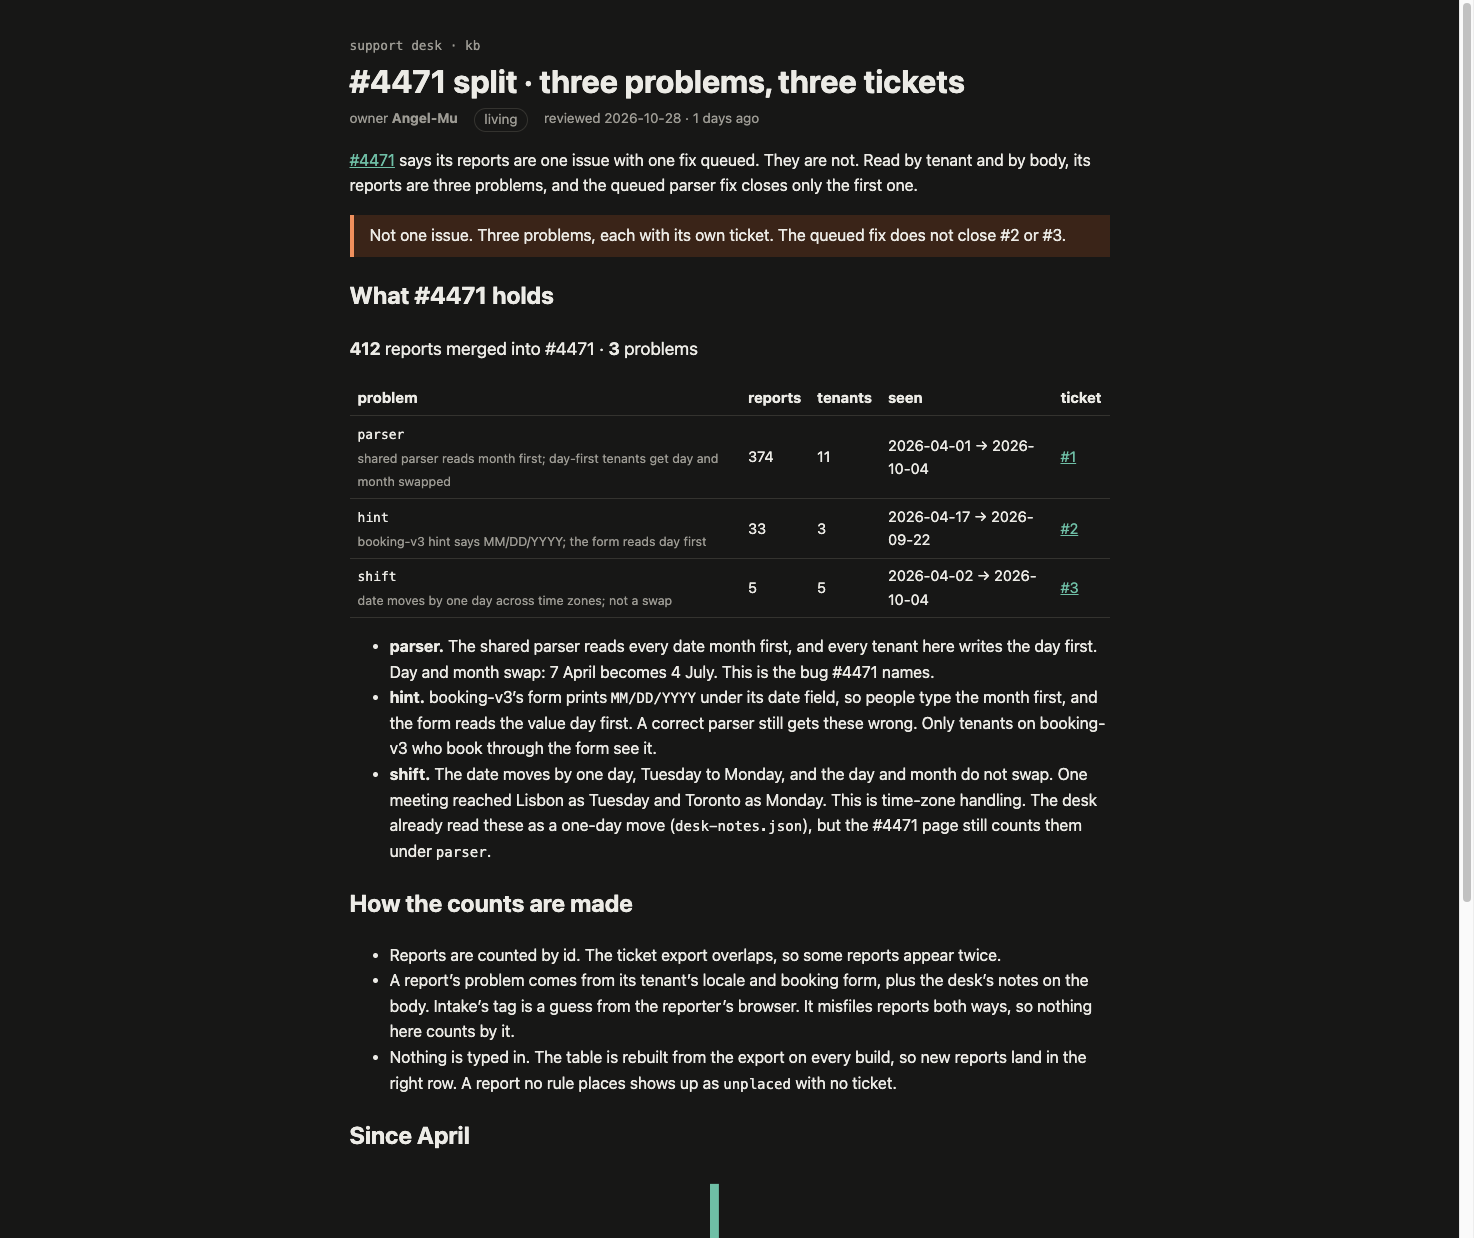
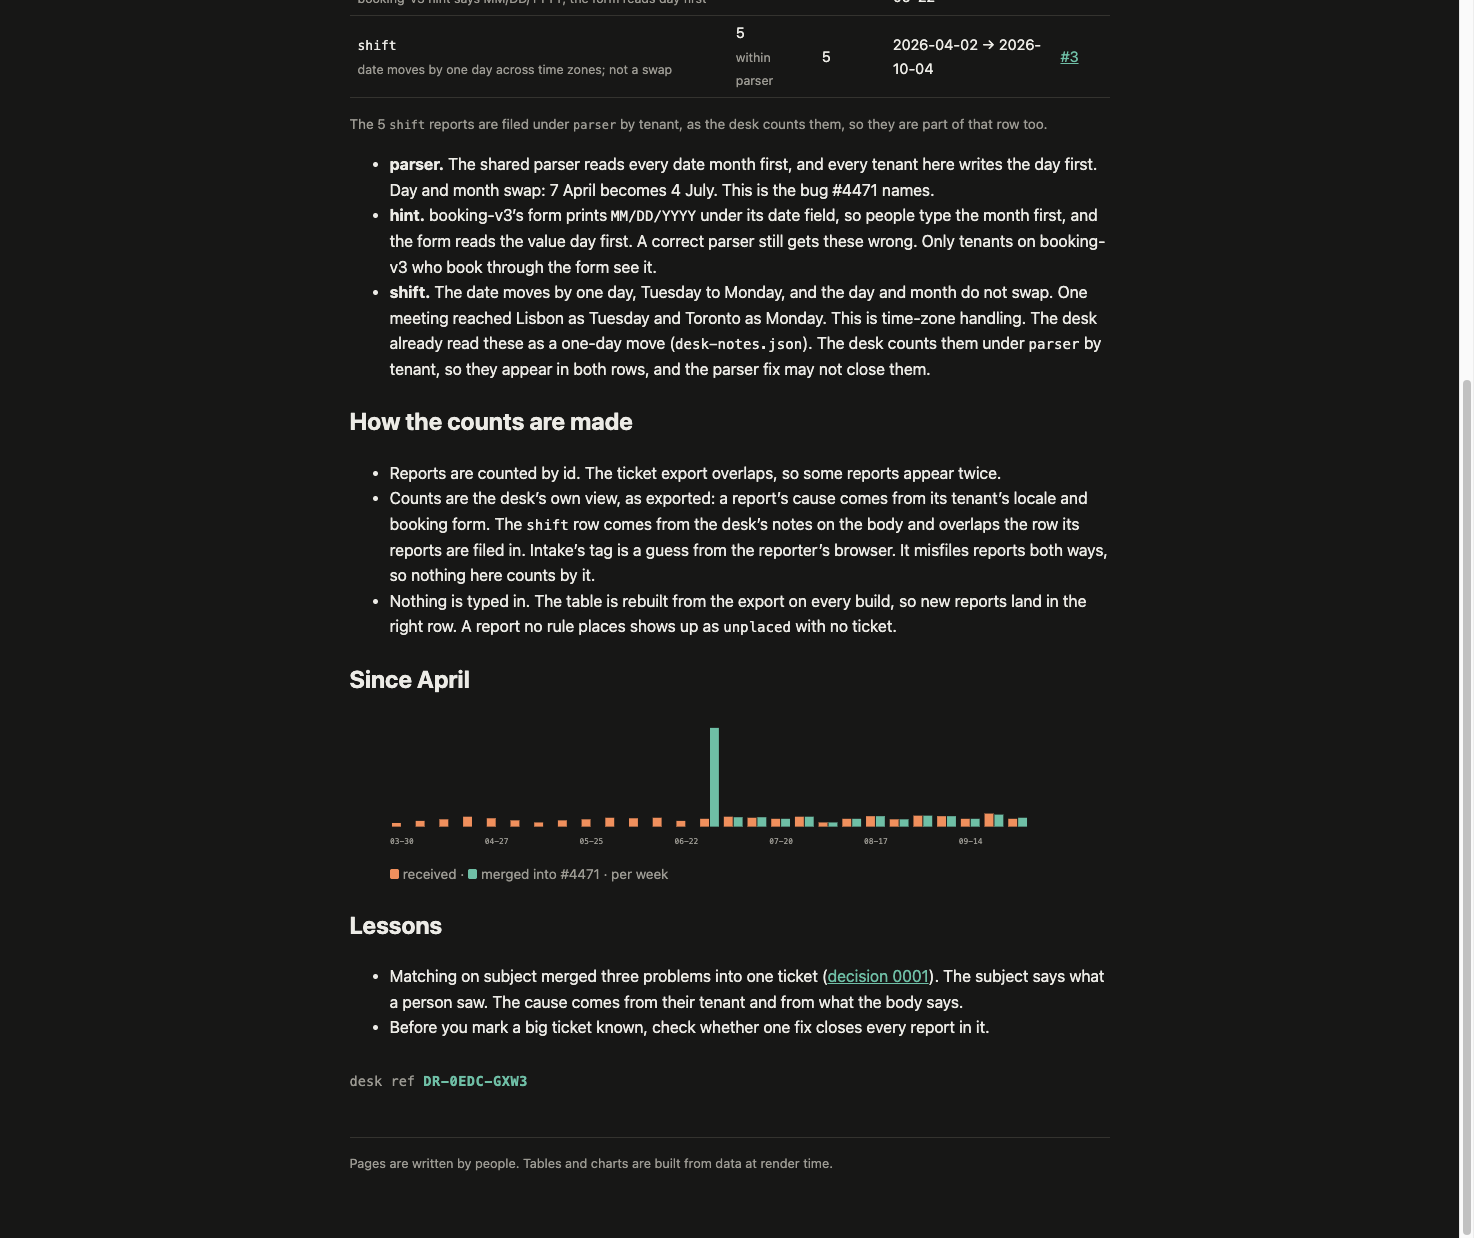
Count #4471 problems in the desk's view: parser 379, hint 33, shift 5 within parser

diff --git a/rendered/4471-split.html b/rendered/4471-split.html
@@ -32,14 +32,15 @@
   <body>
     <div style="display: contents"><!--[--><!--[0--><!--[--><!--[--><div class="kb svelte-e2jw2j"><header><a class="crumb svelte-e2jw2j" href="/kb">support desk · kb</a> <h1 class="svelte-e2jw2j">#4471 split · three problems, three tickets</h1> <p class="meta svelte-e2jw2j"><span>owner <b>Angel-Mu</b></span> <span class="status living svelte-e2jw2j">living</span> <span class="svelte-e2jw2j">reviewed 2026-10-28 · 1 days ago</span></p></header> <!--[-1--><!--]--> <main><p><a href="/kb/incidents/4471">#4471</a> says its reports are one issue with one fix queued. They are not. Read by
 tenant and by body, its reports are three problems, and the queued parser fix closes only the
-first one.</p> <aside class="warn svelte-17bri61"><!---->Not one issue. Three problems, each with its own ticket. The queued fix does not close #2 or #3.<!----></aside><!----> <h2>What #4471 holds</h2> <p class="sum svelte-1op6c6"><strong>412</strong> reports merged into #4471 · <strong>3</strong> problems</p> <table><thead><tr><th>problem</th><th>reports</th><th>tenants</th><th>seen</th><th>ticket</th></tr></thead><tbody><!--[--><tr class="svelte-1op6c6"><td class="svelte-1op6c6"><code>parser</code><!--[0--><br/><span class="what svelte-1op6c6">shared parser reads month first; day-first tenants get day and month swapped</span><!--]--></td><td class="svelte-1op6c6">374</td><td class="svelte-1op6c6">11</td><td class="svelte-1op6c6">2026-04-01 → 2026-10-04</td><td class="svelte-1op6c6"><!--[0--><a href="https://github.com/Angel-Mu/s01e03-what-it-shows/issues/1">#1</a><!--]--></td></tr><tr class="svelte-1op6c6"><td class="svelte-1op6c6"><code>hint</code><!--[0--><br/><span class="what svelte-1op6c6">booking-v3 hint says MM/DD/YYYY; the form reads day first</span><!--]--></td><td class="svelte-1op6c6">33</td><td class="svelte-1op6c6">3</td><td class="svelte-1op6c6">2026-04-17 → 2026-09-22</td><td class="svelte-1op6c6"><!--[0--><a href="https://github.com/Angel-Mu/s01e03-what-it-shows/issues/2">#2</a><!--]--></td></tr><tr class="svelte-1op6c6"><td class="svelte-1op6c6"><code>shift</code><!--[0--><br/><span class="what svelte-1op6c6">date moves by one day across time zones; not a swap</span><!--]--></td><td class="svelte-1op6c6">5</td><td class="svelte-1op6c6">5</td><td class="svelte-1op6c6">2026-04-02 → 2026-10-04</td><td class="svelte-1op6c6"><!--[0--><a href="https://github.com/Angel-Mu/s01e03-what-it-shows/issues/3">#3</a><!--]--></td></tr><!--]--></tbody></table><!----> <ul><li><strong>parser.</strong> The shared parser reads every date month first, and every tenant here writes the day
+first one.</p> <aside class="warn svelte-17bri61"><!---->Not one issue. Three problems, each with its own ticket. The queued fix does not close #2 or #3.<!----></aside><!----> <h2>What #4471 holds</h2> <p class="sum svelte-1op6c6"><strong>412</strong> reports merged into #4471 · <strong>3</strong> problems</p> <table><thead><tr><th>problem</th><th>reports</th><th>tenants</th><th>seen</th><th>ticket</th></tr></thead><tbody><!--[--><tr class="svelte-1op6c6"><td class="svelte-1op6c6"><code>parser</code><!--[0--><br/><span class="what svelte-1op6c6">shared parser reads month first; day-first tenants get day and month swapped</span><!--]--></td><td class="svelte-1op6c6">379<!--[-1--><!--]--></td><td class="svelte-1op6c6">11</td><td class="svelte-1op6c6">2026-04-01 → 2026-10-04</td><td class="svelte-1op6c6"><!--[0--><a href="https://github.com/Angel-Mu/s01e03-what-it-shows/issues/1">#1</a><!--]--></td></tr><tr class="svelte-1op6c6"><td class="svelte-1op6c6"><code>hint</code><!--[0--><br/><span class="what svelte-1op6c6">booking-v3 hint says MM/DD/YYYY; the form reads day first</span><!--]--></td><td class="svelte-1op6c6">33<!--[-1--><!--]--></td><td class="svelte-1op6c6">3</td><td class="svelte-1op6c6">2026-04-17 → 2026-09-22</td><td class="svelte-1op6c6"><!--[0--><a href="https://github.com/Angel-Mu/s01e03-what-it-shows/issues/2">#2</a><!--]--></td></tr><tr class="svelte-1op6c6"><td class="svelte-1op6c6"><code>shift</code><!--[0--><br/><span class="what svelte-1op6c6">date moves by one day across time zones; not a swap</span><!--]--></td><td class="svelte-1op6c6">5<!--[0--><br/><span class="what svelte-1op6c6">within parser</span><!--]--></td><td class="svelte-1op6c6">5</td><td class="svelte-1op6c6">2026-04-02 → 2026-10-04</td><td class="svelte-1op6c6"><!--[0--><a href="https://github.com/Angel-Mu/s01e03-what-it-shows/issues/3">#3</a><!--]--></td></tr><!--]--></tbody></table> <!--[--><p class="what svelte-1op6c6">The 5 <code>shift</code> reports are filed under <code>parser</code> by tenant, as the desk counts them, so they are part of that row too.</p><!--]--><!----> <ul><li><strong>parser.</strong> The shared parser reads every date month first, and every tenant here writes the day
 first. Day and month swap: 7 April becomes 4 July. This is the bug #4471 names.</li> <li><strong>hint.</strong> booking-v3’s form prints <code>MM/DD/YYYY</code> under its date field, so people type the month
 first, and the form reads the value day first. A correct parser still gets these wrong. Only
 tenants on booking-v3 who book through the form see it.</li> <li><strong>shift.</strong> The date moves by one day, Tuesday to Monday, and the day and month do not swap. One
 meeting reached Lisbon as Tuesday and Toronto as Monday. This is time-zone handling. The desk
-already read these as a one-day move (<code>desk-notes.json</code>), but the #4471 page still counts them
-under <code>parser</code>.</li></ul> <h2>How the counts are made</h2> <ul><li>Reports are counted by id. The ticket export overlaps, so some reports appear twice.</li> <li>A report’s problem comes from its tenant’s locale and booking form, plus the desk’s notes on the
-body. Intake’s tag is a guess from the reporter’s browser. It misfiles reports both ways, so
+already read these as a one-day move (<code>desk-notes.json</code>). The desk counts them under <code>parser</code> by
+tenant, so they appear in both rows, and the parser fix may not close them.</li></ul> <h2>How the counts are made</h2> <ul><li>Reports are counted by id. The ticket export overlaps, so some reports appear twice.</li> <li>Counts are the desk’s own view, as exported: a report’s cause comes from its tenant’s locale
+and booking form. The <code>shift</code> row comes from the desk’s notes on the body and overlaps the row
+its reports are filed in. Intake’s tag is a guess from the reporter’s browser. It misfiles reports both ways, so
 nothing here counts by it.</li> <li>Nothing is typed in. The table is rebuilt from the export on every build, so new reports land in
 the right row. A report no rule places shows up as <code>unplaced</code> with no ticket.</li></ul> <h2>Since April</h2> <figure><svg viewBox="0 0 648 140" role="img" aria-label="reports received and merged into #4471, per week" class="svelte-18a6qal"><!--[--><rect class="in svelte-18a6qal" x="2" y="106.29629629629629" width="9" height="3.7037037037037033"></rect><rect class="merged svelte-18a6qal" x="12" y="110" width="9" height="0"></rect><!--[0--><text x="12" y="128" class="svelte-18a6qal">03-30</text><!--]--><rect class="in svelte-18a6qal" x="26" y="104.17989417989418" width="9" height="5.82010582010582"></rect><rect class="merged svelte-18a6qal" x="36" y="110" width="9" height="0"></rect><!--[-1--><!--]--><rect class="in svelte-18a6qal" x="50" y="102.5925925925926" width="9" height="7.4074074074074066"></rect><rect class="merged svelte-18a6qal" x="60" y="110" width="9" height="0"></rect><!--[-1--><!--]--><rect class="in svelte-18a6qal" x="74" y="99.94708994708995" width="9" height="10.052910052910052"></rect><rect class="merged svelte-18a6qal" x="84" y="110" width="9" height="0"></rect><!--[-1--><!--]--><rect class="in svelte-18a6qal" x="98" y="101.53439153439153" width="9" height="8.465608465608465"></rect><rect class="merged svelte-18a6qal" x="108" y="110" width="9" height="0"></rect><!--[0--><text x="108" y="128" class="svelte-18a6qal">04-27</text><!--]--><rect class="in svelte-18a6qal" x="122" y="103.65079365079364" width="9" height="6.349206349206349"></rect><rect class="merged svelte-18a6qal" x="132" y="110" width="9" height="0"></rect><!--[-1--><!--]--><rect class="in svelte-18a6qal" x="146" y="105.76719576719577" width="9" height="4.232804232804233"></rect><rect class="merged svelte-18a6qal" x="156" y="110" width="9" height="0"></rect><!--[-1--><!--]--><rect class="in svelte-18a6qal" x="170" y="103.65079365079364" width="9" height="6.349206349206349"></rect><rect class="merged svelte-18a6qal" x="180" y="110" width="9" height="0"></rect><!--[-1--><!--]--><rect class="in svelte-18a6qal" x="194" y="102.5925925925926" width="9" height="7.4074074074074066"></rect><rect class="merged svelte-18a6qal" x="204" y="110" width="9" height="0"></rect><!--[0--><text x="204" y="128" class="svelte-18a6qal">05-25</text><!--]--><rect class="in svelte-18a6qal" x="218" y="101.00529100529101" width="9" height="8.994708994708994"></rect><rect class="merged svelte-18a6qal" x="228" y="110" width="9" height="0"></rect><!--[-1--><!--]--><rect class="in svelte-18a6qal" x="242" y="101.53439153439153" width="9" height="8.465608465608465"></rect><rect class="merged svelte-18a6qal" x="252" y="110" width="9" height="0"></rect><!--[-1--><!--]--><rect class="in svelte-18a6qal" x="266" y="101.00529100529101" width="9" height="8.994708994708994"></rect><rect class="merged svelte-18a6qal" x="276" y="110" width="9" height="0"></rect><!--[-1--><!--]--><rect class="in svelte-18a6qal" x="290" y="104.17989417989418" width="9" height="5.82010582010582"></rect><rect class="merged svelte-18a6qal" x="300" y="110" width="9" height="0"></rect><!--[0--><text x="300" y="128" class="svelte-18a6qal">06-22</text><!--]--><rect class="in svelte-18a6qal" x="314" y="102.06349206349206" width="9" height="7.936507936507936"></rect><rect class="merged svelte-18a6qal" x="324" y="10" width="9" height="100"></rect><!--[-1--><!--]--><rect class="in svelte-18a6qal" x="338" y="99.94708994708995" width="9" height="10.052910052910052"></rect><rect class="merged svelte-18a6qal" x="348" y="100.47619047619048" width="9" height="9.523809523809524"></rect><!--[-1--><!--]--><rect class="in svelte-18a6qal" x="362" y="101.00529100529101" width="9" height="8.994708994708994"></rect><rect class="merged svelte-18a6qal" x="372" y="100.47619047619048" width="9" height="9.523809523809524"></rect><!--[-1--><!--]--><rect class="in svelte-18a6qal" x="386" y="102.06349206349206" width="9" height="7.936507936507936"></rect><rect class="merged svelte-18a6qal" x="396" y="102.06349206349206" width="9" height="7.936507936507936"></rect><!--[0--><text x="396" y="128" class="svelte-18a6qal">07-20</text><!--]--><rect class="in svelte-18a6qal" x="410" y="99.94708994708995" width="9" height="10.052910052910052"></rect><rect class="merged svelte-18a6qal" x="420" y="99.94708994708995" width="9" height="10.052910052910052"></rect><!--[-1--><!--]--><rect class="in svelte-18a6qal" x="434" y="105.76719576719577" width="9" height="4.232804232804233"></rect><rect class="merged svelte-18a6qal" x="444" y="105.76719576719577" width="9" height="4.232804232804233"></rect><!--[-1--><!--]--><rect class="in svelte-18a6qal" x="458" y="102.06349206349206" width="9" height="7.936507936507936"></rect><rect class="merged svelte-18a6qal" x="468" y="102.06349206349206" width="9" height="7.936507936507936"></rect><!--[-1--><!--]--><rect class="in svelte-18a6qal" x="482" y="99.41798941798942" width="9" height="10.582010582010582"></rect><rect class="merged svelte-18a6qal" x="492" y="99.41798941798942" width="9" height="10.582010582010582"></rect><!--[0--><text x="492" y="128" class="svelte-18a6qal">08-17</text><!--]--><rect class="in svelte-18a6qal" x="506" y="102.5925925925926" width="9" height="7.4074074074074066"></rect><rect class="merged svelte-18a6qal" x="516" y="102.5925925925926" width="9" height="7.4074074074074066"></rect><!--[-1--><!--]--><rect class="in svelte-18a6qal" x="530" y="98.88888888888889" width="9" height="11.11111111111111"></rect><rect class="merged svelte-18a6qal" x="540" y="98.88888888888889" width="9" height="11.11111111111111"></rect><!--[-1--><!--]--><rect class="in svelte-18a6qal" x="554" y="99.41798941798942" width="9" height="10.582010582010582"></rect><rect class="merged svelte-18a6qal" x="564" y="99.41798941798942" width="9" height="10.582010582010582"></rect><!--[-1--><!--]--><rect class="in svelte-18a6qal" x="578" y="102.06349206349206" width="9" height="7.936507936507936"></rect><rect class="merged svelte-18a6qal" x="588" y="102.06349206349206" width="9" height="7.936507936507936"></rect><!--[0--><text x="588" y="128" class="svelte-18a6qal">09-14</text><!--]--><rect class="in svelte-18a6qal" x="602" y="96.77248677248677" width="9" height="13.227513227513226"></rect><rect class="merged svelte-18a6qal" x="612" y="97.83068783068784" width="9" height="12.16931216931217"></rect><!--[-1--><!--]--><rect class="in svelte-18a6qal" x="626" y="102.06349206349206" width="9" height="7.936507936507936"></rect><rect class="merged svelte-18a6qal" x="636" y="101.00529100529101" width="9" height="8.994708994708994"></rect><!--[-1--><!--]--><!--]--></svg> <figcaption class="svelte-18a6qal"><span class="key in svelte-18a6qal"></span> received · <span class="key merged svelte-18a6qal"></span> merged into #4471 · per week</figcaption></figure><!----> <h2>Lessons</h2> <ul><li>Matching on subject merged three problems into one ticket (<a href="/kb/decisions/0001-dedupe-by-subject">decision 0001</a>).
 The subject says what a person saw. The cause comes from their tenant and from what the body says.</li> <li>Before you mark a big ticket known, check whether one fix closes every report in it.</li></ul> <!--[0--><p class="stamp svelte-1280m42">desk ref <b class="svelte-1280m42">DR-0EDC-GXW3</b></p><!--]--><!----><!----></main> <footer class="svelte-e2jw2j">Pages are written by people. Tables and charts are built from data at render time.</footer></div><!--]--><!----><!--]--><!--]--> <!--[-1--><!--]--><!--]-->

diff --git a/src/lib/kb/problems.ts b/src/lib/kb/problems.ts
@@ -1,5 +1,6 @@
-// The problems inside #4471, one per filed ticket. causes.ts places a report by tenant; this adds what
-// the desk read in the body (desk-notes.json), which no tenant lookup can see.
+// The problems inside #4471, one per filed ticket. Counts follow the desk's view (causes.ts, by tenant).
+// `shift` comes from what the desk read in the body (desk-notes.json): those reports stay counted under
+// the cause their tenant files them in, so the shift row overlaps that row and does not add to the total.
 import { causeOf, uniqueById, type Report, type Tenant } from '#lib/kb/causes';
 
 export type Problem = 'parser' | 'hint' | 'shift' | 'unplaced';
@@ -19,12 +20,19 @@ export const PROBLEM_TICKETS: Record<Exclude<Problem, 'unplaced'>, { issue: stri
   },
 };
 
-export function problemOf(r: Report, t: Tenant | undefined, oneDayMove: readonly string[]): Problem {
-  if (oneDayMove.includes(r.id)) return 'shift';
-  return causeOf(r, t) ?? 'unplaced';
-}
+export type ProblemRow = {
+  problem: Problem;
+  reports: Report[];
+  tenants: number;
+  firstSeen: string;
+  lastSeen: string;
+  filedUnder?: Problem;
+};
 
-export type ProblemRow = { problem: Problem; reports: Report[]; tenants: number; firstSeen: string; lastSeen: string };
+function row(problem: Problem, rs: Report[], filedUnder?: Problem): ProblemRow {
+  const days = rs.map((r) => r.receivedAt.slice(0, 10)).sort();
+  return { problem, reports: rs, tenants: new Set(rs.map((r) => r.tenant)).size, firstSeen: days[0], lastSeen: days[days.length - 1], filedUnder };
+}
 
 export function splitTicket(
   all: Report[],
@@ -35,14 +43,13 @@ export function splitTicket(
   const merged = uniqueById(all).filter((r) => r.mergedInto === ticket);
   const by = new Map<Problem, Report[]>();
   for (const r of merged) {
-    const p = problemOf(r, tenantOf(r), oneDayMove);
+    const p: Problem = causeOf(r, tenantOf(r)) ?? 'unplaced';
     by.set(p, [...(by.get(p) ?? []), r]);
   }
-  const rows = [...by.entries()]
-    .map(([problem, rs]) => {
-      const days = rs.map((r) => r.receivedAt.slice(0, 10)).sort();
-      return { problem, reports: rs, tenants: new Set(rs.map((r) => r.tenant)).size, firstSeen: days[0], lastSeen: days[days.length - 1] };
-    })
-    .sort((a, b) => b.reports.length - a.reports.length);
-  return { merged: merged.length, rows };
+  const rows = [...by.entries()].map(([p, rs]) => row(p, rs)).sort((a, b) => b.reports.length - a.reports.length);
+  const moved = merged.filter((r) => oneDayMove.includes(r.id));
+  const shiftRows = [...new Set(moved.map((r) => causeOf(r, tenantOf(r)) ?? 'unplaced'))].map((under) =>
+    row('shift', moved.filter((r) => (causeOf(r, tenantOf(r)) ?? 'unplaced') === under), under),
+  );
+  return { merged: merged.length, rows: [...rows, ...shiftRows] };
 }

diff --git a/src/lib/kb/ProblemTable.svelte b/src/lib/kb/ProblemTable.svelte
@@ -13,8 +13,8 @@
 
 <p class="sum">
   <strong>{split.merged}</strong> reports merged into #{ticket} ·
-  <strong>{split.rows.length}</strong>
-  {split.rows.length === 1 ? 'problem' : 'problems'}
+  <strong>{new Set(split.rows.map((r) => r.problem)).size}</strong>
+  {new Set(split.rows.map((r) => r.problem)).size === 1 ? 'problem' : 'problems'}
 </p>
 
 <table>
@@ -22,11 +22,11 @@
     <tr><th>problem</th><th>reports</th><th>tenants</th><th>seen</th><th>ticket</th></tr>
   </thead>
   <tbody>
-    {#each split.rows as row (row.problem)}
+    {#each split.rows as row (row.problem + (row.filedUnder ?? ''))}
       {@const t = row.problem === 'unplaced' ? null : PROBLEM_TICKETS[row.problem]}
       <tr class:open={!t}>
         <td><code>{row.problem}</code>{#if t}<br /><span class="what">{t.what}</span>{/if}</td>
-        <td>{row.reports.length}</td>
+        <td>{row.reports.length}{#if row.filedUnder}<br /><span class="what">within {row.filedUnder}</span>{/if}</td>
         <td>{row.tenants}</td>
         <td>{row.firstSeen} → {row.lastSeen}</td>
         <td>{#if t}<a href={t.issue}>#{issueNo(t.issue)}</a>{:else}no ticket yet: read these{/if}</td>
@@ -34,6 +34,10 @@
     {/each}
   </tbody>
 </table>
+
+{#each split.rows.filter((r) => r.filedUnder) as row (row.filedUnder)}
+  <p class="what">The {row.reports.length} <code>{row.problem}</code> reports are filed under <code>{row.filedUnder}</code> by tenant, as the desk counts them, so they are part of that row too.</p>
+{/each}
 
 <style>
   .sum { font-size: 1.1rem; }
